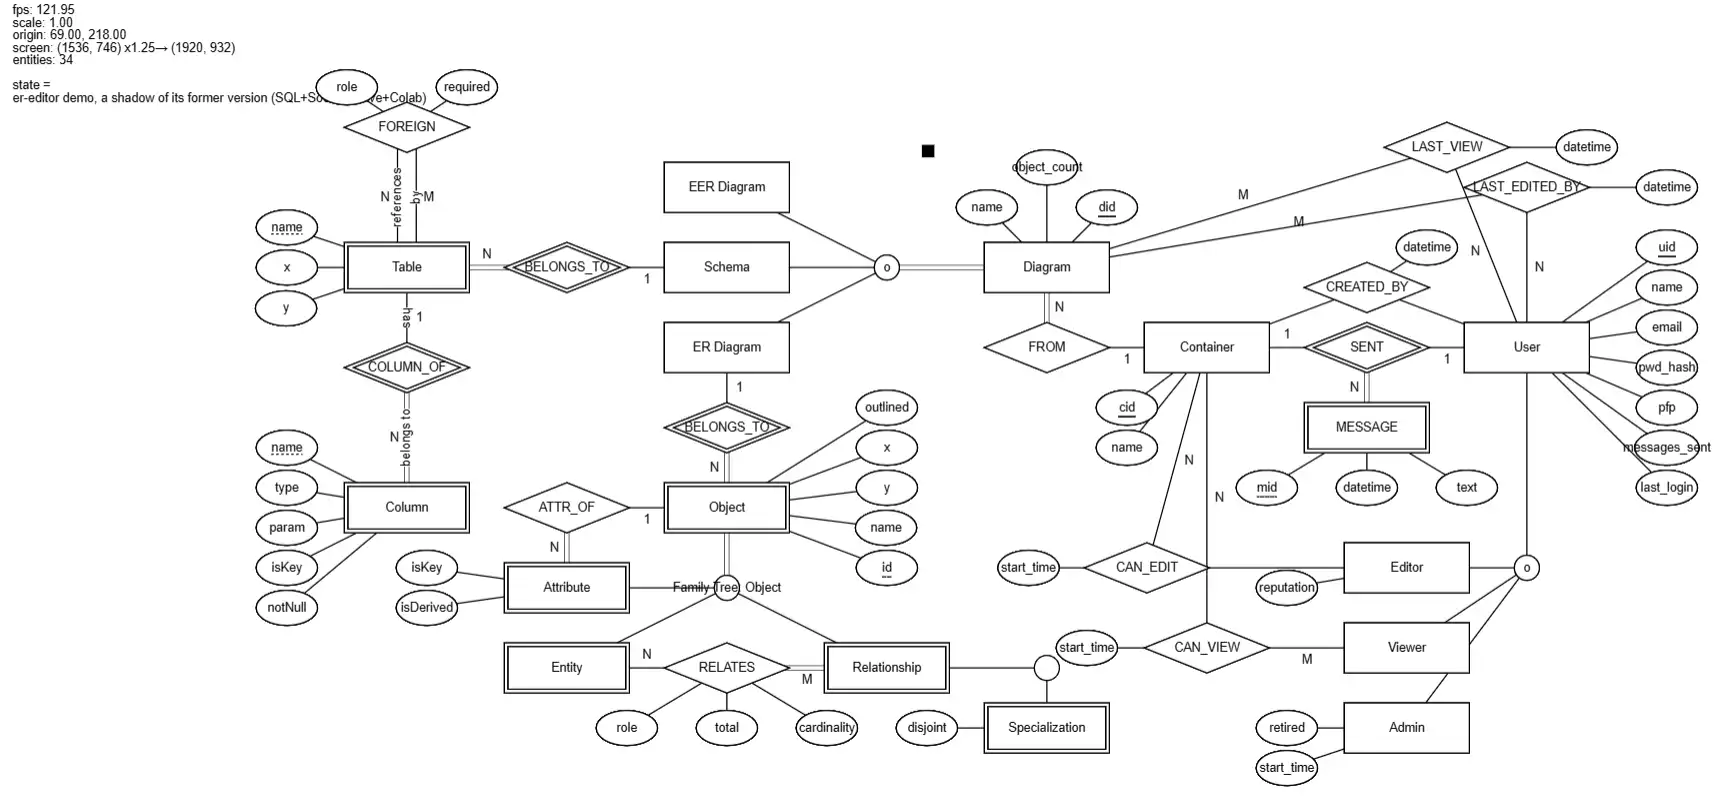
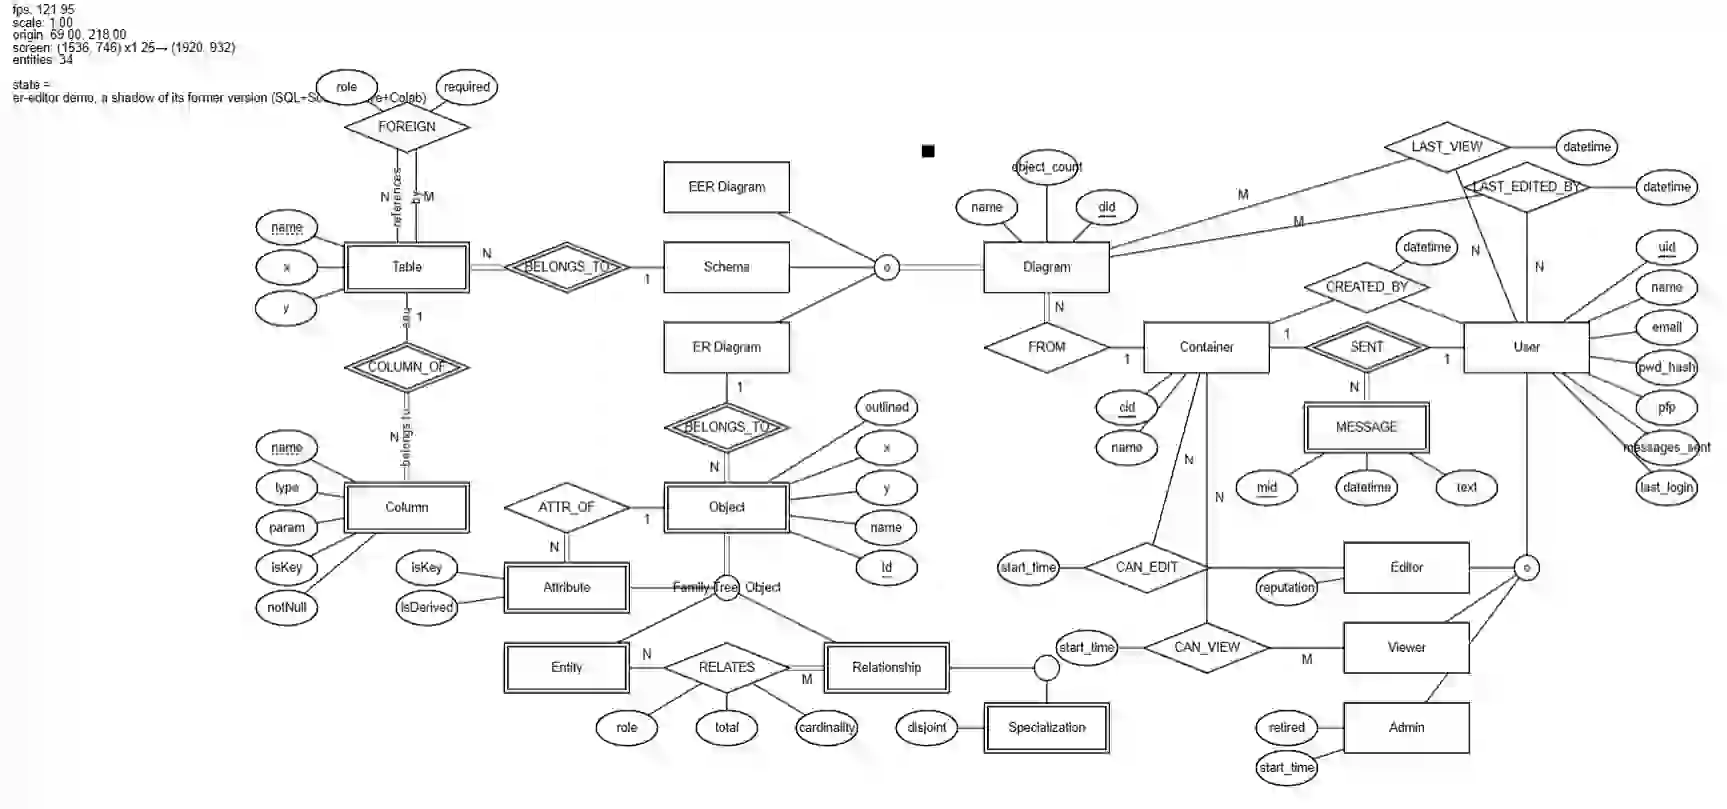
minor changes + image minify

diff --git a/pages/c/[...content].vue b/pages/c/[...content].vue
@@ -40,11 +40,18 @@ const [prev, next] = peers.length > 1 ? [
   peers[(meIndex + 1) % peers.length],
 ] : [];
 
-// console.log([prev, next])
+recursiveSort(navigation.value);
 
 function removeSame(parent: NavItem) {
   if (parent.children) (parent.children = parent.children.filter(c => c._path !== parent._path)).forEach(c => removeSame(c));
   return parent;
+}
+
+function recursiveSort(nav?: NavItem[] | null) {
+  if (!(nav && Array.isArray(nav) && nav.length > 0)) return
+  nav.sort((a, b) => String(getDoc(b._path)?.created).localeCompare(getDoc(a._path)?.created))
+  nav.forEach(c => recursiveSort(c.children));
+  return nav
 }
 
 useContentHead(doc as Ref<ParsedContent>);
@@ -69,16 +76,9 @@ function navToToc(nav: NavItem[], depth = 2) {
   }));
 }
 
-function recursiveSort(nav: NavItem[]) {
-  if (!(nav && Array.isArray(nav) && nav.length > 0)) return
-  nav.sort((a, b) => String(getDoc(b._path)?.created).localeCompare(getDoc(a._path)?.created))
-  nav.forEach(c => recursiveSort(c.children));
-  return nav
-}
-
 const TOC = computed(() => {
   let toc = doc.value?.body?.toc?.links ?? [];
-  if (path === '/') toc = [...toc, ...navToToc(recursiveSort(navigation.value))];
+  if (path === '/') toc = [...toc, ...navToToc(navigation.value)];
   return toc;
 })
 </script>
@@ -89,7 +89,9 @@ const TOC = computed(() => {
         <el-breadcrumb-item v-for="b in breadcrumbs($route.path)" :to="{ path: b.path }">{{ b.name }}
         </el-breadcrumb-item>
       </el-breadcrumb>
-      <el-anchor :offset="60" class="w-50 bg-transparent! fixed! right-0 <lg:hidden! z-9 backdrop-blur-sm rounded-lg">
+      <el-anchor :offset="60"
+                 class="toc w-50 bg-transparent! fixed! right-0 <lg:hidden! z-9 backdrop-blur-sm rounded-lg"
+                 :data-path="path">
         <el-text>{{ doc.title || "Nothing to see" }}</el-text>
         <table-of-contents v-for="child in TOC" :link="child">
         </table-of-contents>
@@ -132,7 +134,7 @@ const TOC = computed(() => {
   <template v-if="docs && docs.length > 0">
     <el-tree class="text-base! content-page-sections" :current-node-key="path" node-key="_path"
              :default-expand-all="path==='/'"
-             highlight-current auto-expand-parent :default-expanded-keys="[path]" :data="recursiveSort(navigation!)"
+             highlight-current auto-expand-parent :default-expanded-keys="[path]" :data="navigation!"
              :props="defaultProps">
       <template #default="{ node, data }">
         <el-tooltip

diff --git a/layouts/default.vue b/layouts/default.vue
@@ -14,10 +14,13 @@
   </el-main>
 </template>
 <script setup lang="ts">
-const drawerIsOpen = ref<boolean>(true);
+import {useStorage} from '@vueuse/core'
+
+const drawerIsOpen = useStorage("drawer-open", false);
 const {$pwa} = useNuxtApp()
 
 onMounted(() => {
+  console.log($pwa)
   if ($pwa?.offlineReady) {
     ElMessage({
       showClose: true,
@@ -38,11 +41,15 @@ onMounted(() => {
   margin-top: var(--el-menu-horizontal-height);
   min-height: calc(100vh - var(--el-menu-horizontal-height));
   margin-left: calc(var(--el-menu-icon-width) + var(--el-menu-base-level-padding) * 2);
-  overflow-y: visible;
+  background-image: url("/bg/bg_texture.png");
 
   &.open {
     margin-left: 200px;
   }
+}
+
+html.dark .main {
+  background-image: url("/bg/bg_texture.dark.png");
 }
 
 .menu:not(.el-menu--collapse) {

diff --git a/process-assets.js b/process-assets.js
@@ -5,7 +5,7 @@
     await imagemin(['public/img/*.{jpg,png}'], {
         destination: 'public/img/',
         plugins: [
-            imageminWebp({quality: 50})
+            imageminWebp({quality: 25, method: 6, size: 16 * 1024})
         ]
     });
     console.log('Images optimized');

diff --git a/pages/projects/finance.vue b/pages/projects/finance.vue
@@ -1,7 +1,7 @@
 <template>
   <el-tabs>
     <el-tab-pane label="Market">
-      <lazy-market-analyze/>
+      <lazy-finance-market-analyze/>
     </el-tab-pane>
     <el-tab-pane label="Time Value">
       <el-row :gutter="20">

diff --git a/components/TableOfContents.vue b/components/TableOfContents.vue
@@ -17,3 +17,9 @@ defineProps<{
     </template>
   </el-anchor-link>
 </template>
+<style lang="scss">
+.toc[data-path='/'] .el-anchor__link {
+  @apply py-0.1;
+  // only apply to main page
+}
+</style>
